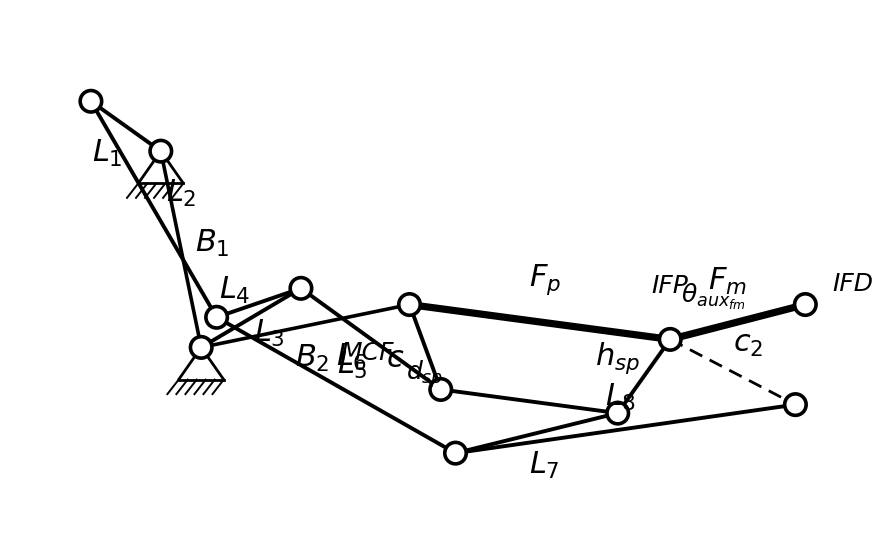
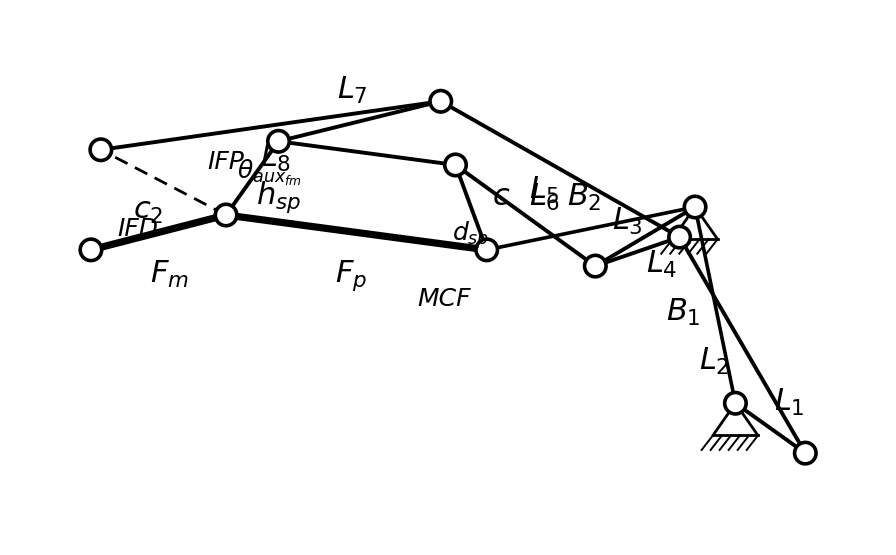
Diagrama: coloca la cadena de eslabones sobre las falanges
- Cambia el criterio de orientacion para que el mecanismo (segunda
  etapa: S1, S2, P2, P3) quede por arriba del dorso del dedo
- Se logra solo con rotacion rigida (sin reflexion/espejo), por lo
  que se preserva la quiralidad del mecanismo
- Regenera el diagrama con la cinematica real

diff --git a/optimizacion/diagrama_modelo_simplificado.py b/optimizacion/diagrama_modelo_simplificado.py
@@ -78,9 +78,14 @@ _origin = est["MCF"].copy()
 for k in _PT_KEYS:
     est[k] = _R @ (est[k] - _origin) + _origin
 
-# Si la bancada/soportes (G1/G2) quedaron por encima de la falange, aplicamos una
-# ROTACION rigida de 180 grados (NO una reflexion) para dejar los soportes abajo.
-if est["G1"][1] > est["IFP"][1]:
+# Si la cadena de eslabones (el mecanismo) quedo POR DEBAJO de las falanges,
+# aplicamos una ROTACION rigida de 180 grados (NO una reflexion) para que la
+# cadena quede POR ARRIBA del dorso del dedo, como en el dispositivo real.
+# Reflejar invertiria la quiralidad del mecanismo, por eso NO se usa.
+_finger_y = np.mean([est["MCF"][1], est["IFP"][1], est["IFD"][1]])
+_chain_y = np.mean([est[k][1] for k in
+                    ["G1", "G2", "T2", "P", "M4", "S1", "S2", "P2", "P3"]])
+if _chain_y < _finger_y:
     _R180 = _rotacion(np.pi)
     for k in _PT_KEYS:
         est[k] = _R180 @ (est[k] - _origin) + _origin
